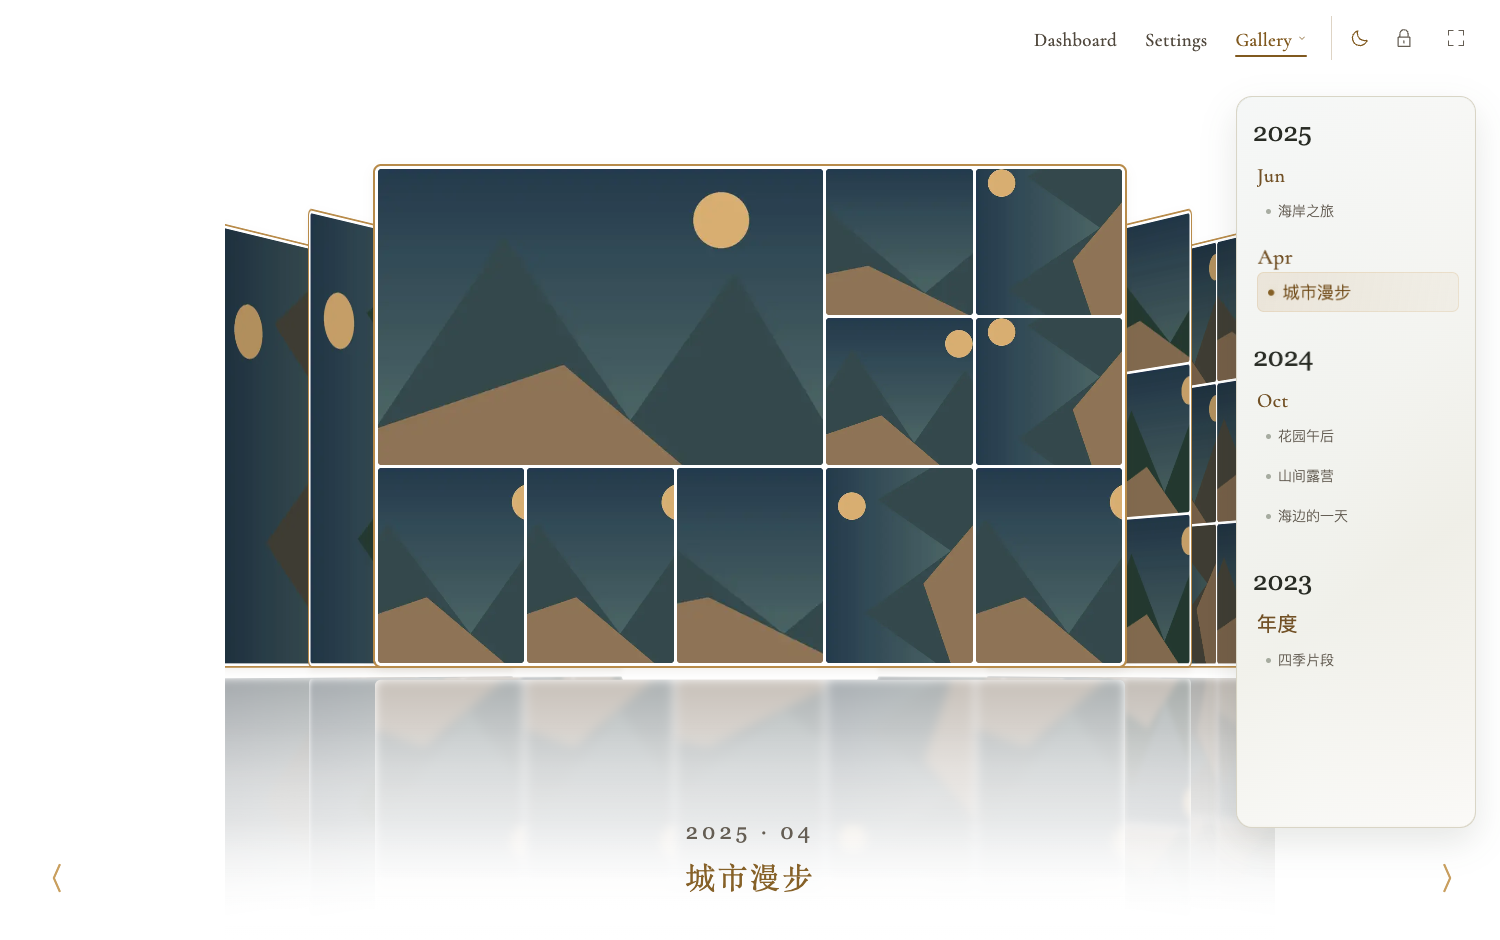
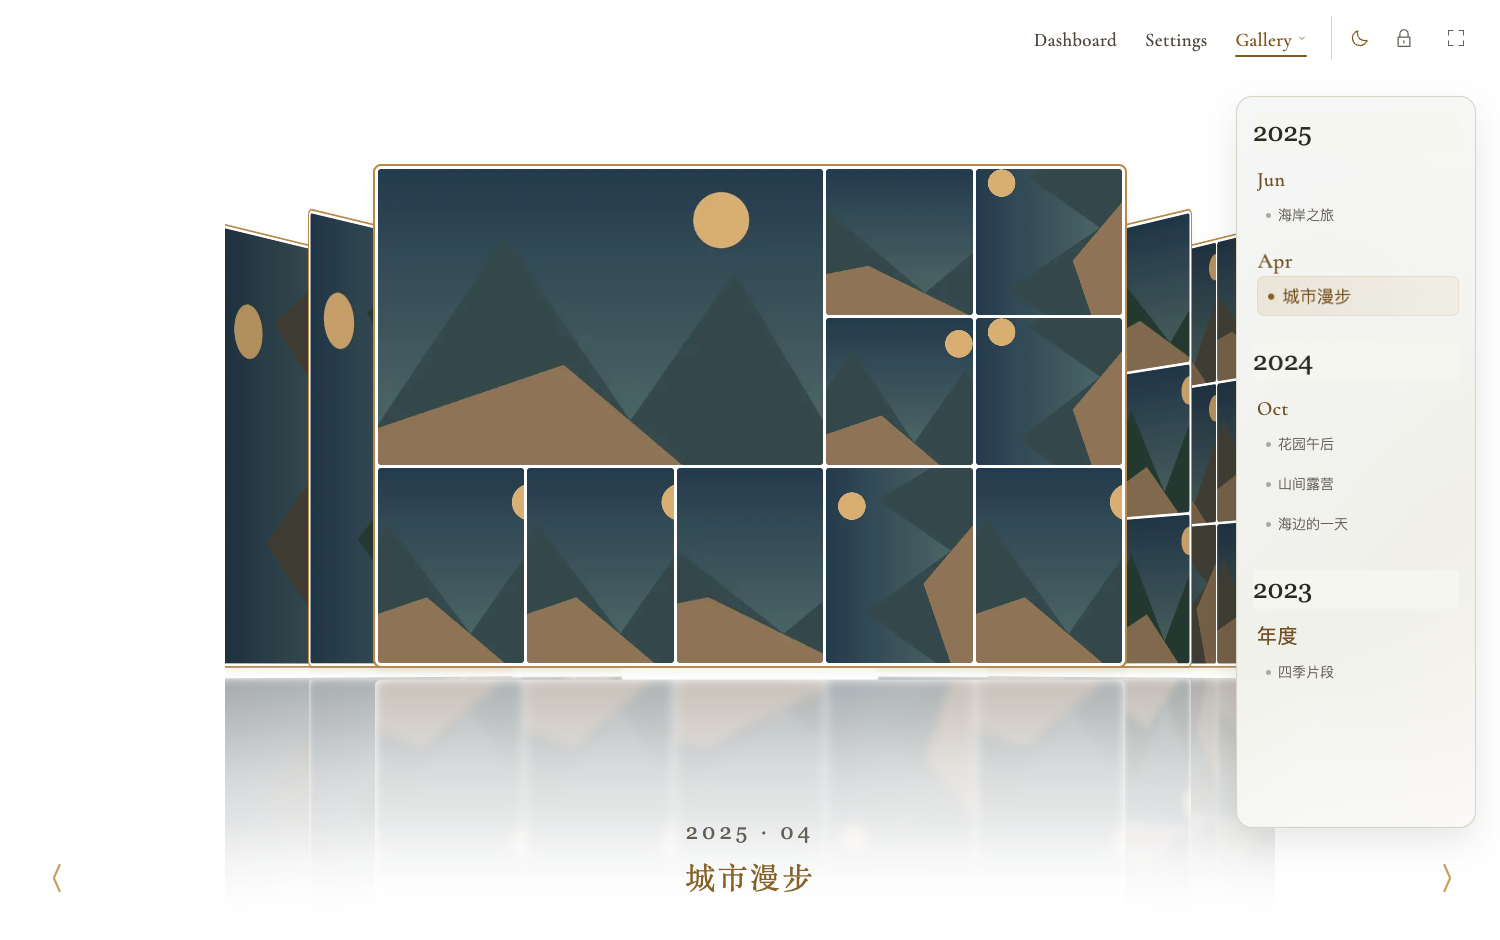
Keep timeline year and month context visible while scrolling

diff --git a/web/src/gallery-timeline-glass.css b/web/src/gallery-timeline-glass.css
@@ -3,13 +3,13 @@
  --timeline-ink:#d6dad3;--timeline-year-ink:#f2eee4;--timeline-month-ink:#dfc391;
  --timeline-active:#f9ead1;--timeline-frame:#ccded537;--timeline-base:#212a29;
  --timeline-pill:linear-gradient(100deg,#b88b4a4d,#b88b4a1a);--timeline-hover:#e0e8df0c;
- --timeline-edge:#e9f2ea77;--timeline-scroll:#dce4dc55;--timeline-photo-opacity:.36;--timeline-label-bg:#26312fed;
+ --timeline-edge:#e9f2ea77;--timeline-scroll:#dce4dc55;--timeline-photo-opacity:.36;--timeline-label-bg:#26312f;
 }
 .gallery-shell.gallery-room-cover[data-theme=light]{
  --timeline-ink:#484b40;--timeline-year-ink:#282b24;--timeline-month-ink:#725126;
  --timeline-active:#6e4815;--timeline-frame:#a89c7c55;--timeline-base:#f1f1eb;
  --timeline-pill:linear-gradient(100deg,#b88b4a26,#b88b4a10);--timeline-hover:#b88b4a0d;
- --timeline-edge:#ffffffed;--timeline-scroll:#6b705c66;--timeline-photo-opacity:.18;--timeline-label-bg:#f5f6f0ed;
+ --timeline-edge:#ffffffed;--timeline-scroll:#6b705c66;--timeline-photo-opacity:.18;--timeline-label-bg:#f5f6f0;
 }
 .gallery-shell.gallery-room-cover .timeline-glass-frame{
  position:absolute;z-index:14;right:24px;top:96px;bottom:112px;width:clamp(210px,16vw,260px);
@@ -30,6 +30,7 @@
 .gallery-shell.gallery-room-cover .timeline-glass-frame>.dock-timeline::-webkit-scrollbar{display:block;width:3px;height:3px}
 .gallery-shell.gallery-room-cover .timeline-glass-frame>.dock-timeline::-webkit-scrollbar-thumb{background:var(--timeline-scroll);border-radius:3px}
 .gallery-shell.gallery-room-cover .dock-timeline .timeline-year{color:var(--timeline-year-ink);margin:26px 0 8px}
+.gallery-shell.gallery-room-cover .timeline-glass-frame .timeline-year{position:sticky;top:0;z-index:2;padding-bottom:4px;background:linear-gradient(180deg,var(--timeline-label-bg) 85%,transparent)}
 .gallery-shell.gallery-room-cover .dock-timeline .timeline-year-group:first-child .timeline-year{margin-top:0}
 .gallery-shell.gallery-room-cover .dock-timeline .timeline-year.selected{color:var(--timeline-year-ink)}
 .gallery-shell.gallery-room-cover .dock-timeline h3.timeline-month{color:var(--timeline-month-ink)}
@@ -58,7 +59,7 @@
 @media(max-width:1100px){
  .gallery-shell.gallery-room-cover .timeline-glass-frame{left:24px;right:24px;top:auto;bottom:128px;width:auto;height:132px;border-radius:12px}
  .gallery-shell.gallery-room-cover .timeline-glass-frame>.dock-timeline{padding:10px 14px;gap:24px}
- .gallery-shell.gallery-room-cover .dock-timeline .timeline-year{margin:0}
+ .gallery-shell.gallery-room-cover .dock-timeline .timeline-year{margin:0;position:static;padding:0;background:none}
  .gallery-shell.gallery-room-cover .dock-timeline .timeline-month-group{margin:0}
  .gallery-shell.gallery-room-cover .dock-timeline h3.timeline-month{position:sticky;top:0;z-index:1;background:var(--timeline-label-bg);border-radius:4px}
  .gallery-shell.gallery-room-cover .dock-timeline button{padding:3px 8px}
@@ -70,7 +71,7 @@
 @media(max-height:540px) and (min-width:700px){
  .gallery-shell.gallery-room-cover .timeline-glass-frame{left:auto;right:16px;top:80px;bottom:86px;width:170px;height:auto;border-radius:12px}
  .gallery-shell.gallery-room-cover .timeline-glass-frame>.dock-timeline{padding:10px 12px 16px}
- .gallery-shell.gallery-room-cover .dock-timeline .timeline-year{margin:12px 0 0}
+ .gallery-shell.gallery-room-cover .dock-timeline .timeline-year{margin:12px 0 0;position:sticky;top:0;padding-bottom:4px;background:linear-gradient(180deg,var(--timeline-label-bg) 85%,transparent)}
  .gallery-shell.gallery-room-cover .dock-timeline .timeline-year-group:first-child .timeline-year{margin-top:0}
  .gallery-shell.gallery-room-cover .dock-timeline h3.timeline-month{position:static;background:none}
 }

diff --git a/docs/research/timeline-smoke-glass.md b/docs/research/timeline-smoke-glass.md
@@ -10,7 +10,7 @@
 
 材质分三层：矿物色渐变、当前活动最高评分照片的本地缩略图、控制可读性的蒙层。缩略图34px强模糊、低饱和、受控亮度；文字在独立清晰层。外框24px backdrop blur不再是材质的唯一来源。缺图仍有受控底色，不回退NAS原图。
 
-桌面宽210–260px、16px圆角，距顶部96px、右侧24px、底部112px。窄屏变128/132px高横条，矮横屏保留170px宽纵栏。年月活动三层、Dock命中区域、三字母月份保留；手机月份标题固定，避免被内部活动列表卷掉。预览保留336×236与Top评分3–5图，采用匹配的10px圆角与浅色边缘。
+桌面宽210–260px、16px圆角，距顶部96px、右侧24px、底部112px。窄屏变128/132px高横条，矮横屏保留170px宽纵栏。年月活动三层、Dock命中区域、三字母月份保留；纵向长列表固定当前年份标题，手机横栏固定月份标题，避免滚动后失去年月上下文。预览保留336×236与Top评分3–5图，采用匹配的10px圆角与浅色边缘。
 
 白天改象牙底、深灰文字、棕色强调。复查发现旧Dock字色过渡滞后于背景，已去掉颜色过渡，保留位移/缩放；减少动态效果时关闭装饰图淡入及控件过渡。
 
@@ -22,7 +22,7 @@
 
 隔离构建在data/timeline-smoke-glass/web-dist，P5合成fixture监听8793。公开截图只用合成图，真实截图只存data。
 
-- `node web/tests/timeline-material.mjs`：8组材质、选中态、源图切换/撤销、日夜、减少动态效果、5种视口、月份标题和离开Cover Flow释放检查通过。[证据](timeline-material-evidence.json)。采样黑底上空白边沟像素，确认材质有实际亮度和色调变化，而非只验证CSS属性。
+- `node web/tests/timeline-material.mjs`：8组材质、选中态、源图切换/撤销、日夜、减少动态效果、5种视口、年月标题和离开Cover Flow释放检查通过。长年份压力用例在合成DOM临时扩展列表后恢复，专门验证滚动布局，不冒充更多实际图库记录。[证据](timeline-material-evidence.json)。采样黑底上空白边沟像素，确认材质有实际亮度和色调变化，而非只验证CSS属性。
 - `node web/tests/timeline-material-contrast.mjs`：2组最亮缩略图与缺图回退通过。用全白缩略图，隐藏字形后测量对应区域实际背景像素；年/月/活动/选中行最低对比度夜间5.50:1、白天5.79:1，缺图6.82:1。[方法与数值](timeline-material-contrast.json)。合成边界测试不等同于所有物理显示器实测。
 - `node web/tests/timeline-preview.mjs`：15项评分顺序、拼贴、Dock字号、开合、键盘/Esc、滚动、窄屏露出与Blob撤销回归通过。
 - `node web/tests/coverflow-light.mjs`：12项日夜、照片像素保持、镜面遮挡、保位、其他展厅、矮屏/手机与减少动态效果回归通过。镜面原1单位像素容差未放宽，最终串行复验通过。回归输出在忽略的data/timeline-smoke-glass/，未覆盖历史记录。
@@ -32,3 +32,5 @@
 界面改动只涉及静态前端，本身不要求重启API/刮削进程，不改源配置、照片、模型或缓存策略。本设计替代旧左侧分隔线/黄褐投光规范。
 
 发布校验时发现旧正式supervisor已退出：扫描worker在`BEGIN IMMEDIATE`遇到`sqlite3.OperationalError: database is locked`，触发整个supervisor关闭。已沿用data/server、原模型与8790端口恢复服务，并校验新版静态包可访问；没有更改数据库结构或凭据。这是既有稳定性问题的运行恢复，不代表锁冲突根因已修复。
+
+正式图库已核对缩略图材质载入、原活动位置保持及长列表年份固定。真实截图留在data/timeline-smoke-glass/。刷新初期出现的短暂密码占位不能直接判为会话失效；初始化结束后确认会话有效，未通过工具提取密码或读取会话凭据。

diff --git a/docs/STATUS.md b/docs/STATUS.md
@@ -116,6 +116,6 @@ Dashboard、Settings、Gallery及策展助理统一共享导航，固定Dashboar
 
 照片档案精简：SDR源不重复标SDR预览、只显示已记录等效焦距、GPS改近似城市；EXIF与刮削生成统一行样式，去掉风格/主题标题的候选后缀。实测风格并非全无结果：18,246张中2,627张有结果，保留功能但隐藏档案中未确定的空风格行；不降门槛或重刮。7组专项、12组导航回归及16张禁网本地分数诊断已完成，见[本轮记录](research/archive-refinement.md)。
 
-Cover Flow时间线按imagegen新概念改为悬浮烟色玻璃：取消左侧黄褐分隔线，使用浅色圆角边缘、当前活动缩略图的模糊漫反射、局部选中块和右侧细滚动条；日夜、Dock、三层月份与预览保留，手机月份标题固定。8组材质、2组对比度、15项预览及12项日夜回归见[概念与复验](research/timeline-smoke-glass.md)。
+Cover Flow时间线按imagegen新概念改为悬浮烟色玻璃：取消左侧黄褐分隔线，使用浅色圆角边缘、当前活动缩略图的模糊漫反射、局部选中块和右侧细滚动条；日夜、Dock、三层月份与预览保留，纵向年份/手机月份标题固定。8组材质、2组对比度、15项预览及12项日夜回归见[概念与复验](research/timeline-smoke-glass.md)。
 
 本轮发布校验再次发现旧扫描worker因SQLite锁退出并连带关闭正式supervisor；已沿用原数据与模型恢复8790。静态UI变更本身不要求重启；当前未修复锁冲突的根因，运行日志留data/timeline-smoke-glass/。

diff --git a/docs/design/visual-language.md b/docs/design/visual-language.md
@@ -1,6 +1,6 @@
 # Photo Museum · 黑底黄褐色设计语言
 
-2026-10-26时间线材质修订：Cover Flow使用悬浮圆角烟色玻璃，去掉旧左侧黄褐竖线。当前活动本地缩略图强模糊形成冷暖漫反射，文字独立清晰；选中行局部琥珀反光，右侧细滚动条。日夜字色立即切换，手机月份标题固定。新[概念与验证](../research/timeline-smoke-glass.md)优先于下文历史时间线材质说明。
+2026-10-26时间线材质修订：Cover Flow使用悬浮圆角烟色玻璃，去掉旧左侧黄褐竖线。当前活动本地缩略图强模糊形成冷暖漫反射，文字独立清晰；选中行局部琥珀反光，右侧细滚动条。日夜字色立即切换，纵栏固定当前年份、手机横栏固定月份标题。新[概念与验证](../research/timeline-smoke-glass.md)优先于下文历史时间线材质说明。
 
 2026-10-24 用户确认方向。基准是已获认可的[时光隧道概念](imagegen-2026-10-24/04-time-tunnel.png)：照片展板沿时间退入纵深、细字标记、安静的暗处、右侧导航。全局底色纯黑，移除旧暖白/橄榄色体系。2026-10-25首页定为经典Cover Flow，新展厅从Gallery菜单进入；最新决定见 ADR 0005，下文旧阶段记录按最新修订覆盖。
 
